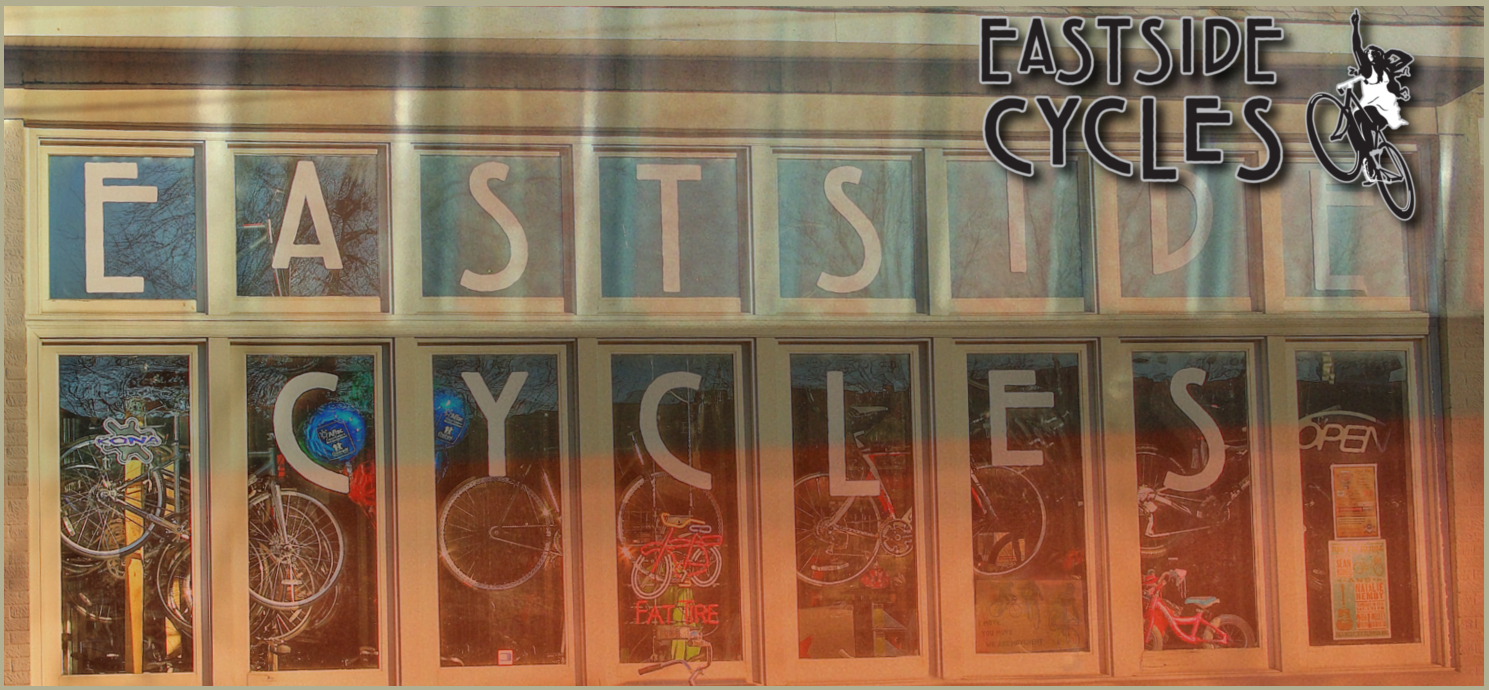
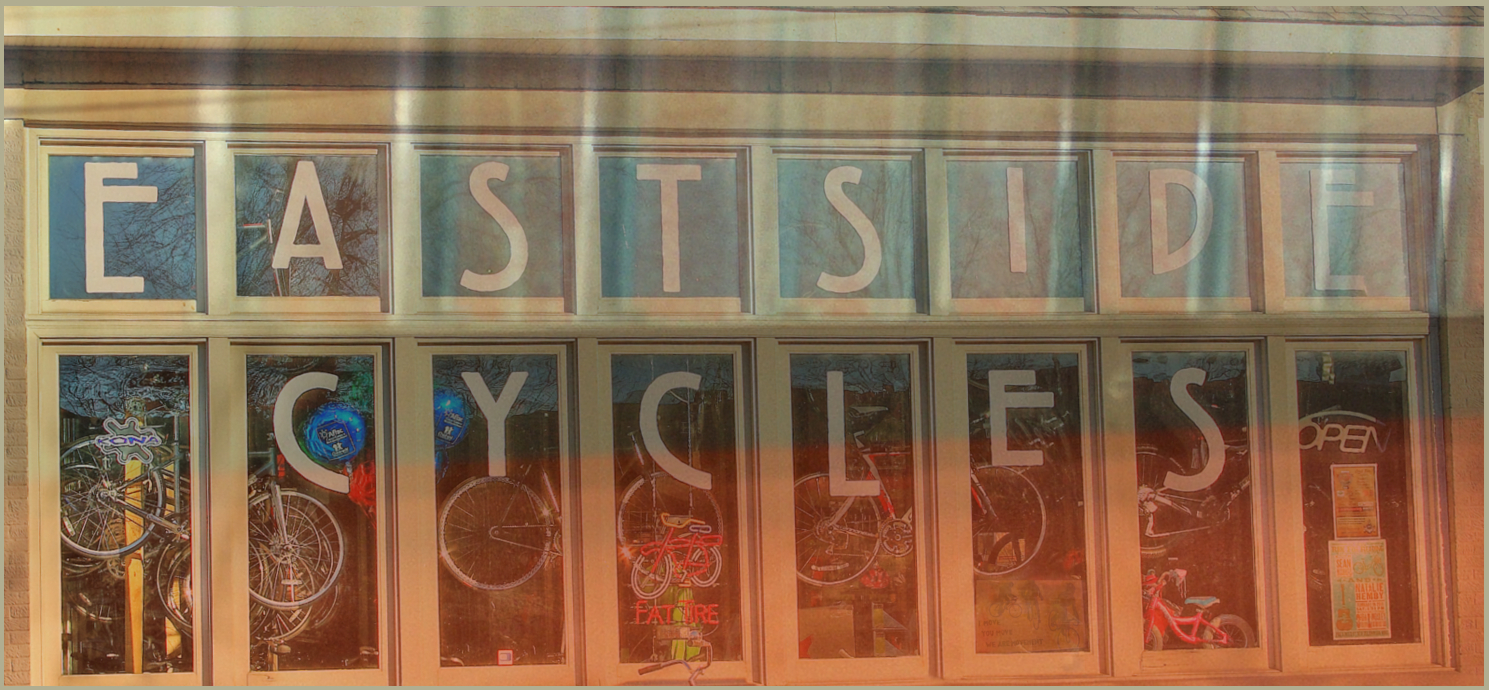
slider fixed and navbar offset is finally done added image transitions

Changed region(s): [[0.6488, 0.0, 0.9577, 0.3348]]

diff --git a/app/styles/main.scss b/app/styles/main.scss
@@ -13,26 +13,69 @@ footer{
   border-top: 1px solid gray;
   background-color: gray;
 }
-#offset{
-  position: relative;
-  bottom: rem-calc(45px);
-}
 
+
+#offset{
+  margin-top: rem-calc(-45px);
+}
 #parallax_container{
-  height:rem-calc(700px);
-  border-bottom: rem-calc(20px) solid gray;
+  height:rem-calc(600px);
+  z-index: 5;
+  position: inherit;
+  margin-bottom: 30px;
+  border-bottom: 20px solid gray;
 }
 
 #parallax{
   height: 100%;
   width: 100%;
-  background-image:url('/img/eastSideHEADER1_sansLogo.jpg');
-  background-attachment: fixed;
+  position: inherit;
 
-  #parallax_content{
+
+  #parallax_content_1{
     height: 100%;
     width: 100%;
     overflow: hidden;
+    position: absolute;
+    z-index: 1;
+    background-image:url('/img/eastSideHEADER1.jpg');
+    background-attachment: fixed;
+    background-size: cover;
+    display: hidden;
+  }
+
+    #parallax_content_2{
+    height: 100%;
+    width: 100%;
+    overflow: hidden;
+    position: absolute;
+    z-index: 2;
+    background-image:url('/img/eastSideHEADER2.jpg');
+    background-attachment: fixed;
+    background-size: cover;
+    display: hidden;
+
+  }
+
+    #parallax_content_3{
+    height: 100%;
+    width: 100%;
+    overflow: hidden;
+    position: absolute;
+    z-index: 3;
+    background-image:url('/img/eastSideHEADER3.jpg');
+    background-attachment: fixed;
+    background-size: cover;
+    display: hidden;
+  }
+
+    #parallax_content_4{
+    height: 100%;
+    width: 100%;
+    overflow: hidden;
+    position: absolute;
+    background-image: linear-gradient(45deg, rgba(35,81,84,.9) 0%, rgba(61,24,51,.5) 50%, rgba(198,45,61,.5) 100%);
+    z-index: 4;
   }
 }
 

diff --git a/app/scripts/main.js b/app/scripts/main.js
@@ -4,6 +4,8 @@ $(document).ready(initialize);
 
 function initialize(){
   set_width();
+  header_fade();
+  setInterval(header_fade,15000);
   var s = skrollr.init({
   render: function(data) {
         //Log the current scroll position.
@@ -16,4 +18,25 @@ function initialize(){
 
 function set_width(){
   $("row").css({"max-width":window.innerWidth});
+}
+
+
+function header_fade(){
+
+  var children = $("#parallax").children();
+  setTimeout(function(){
+    console.log("timeout 1")
+    $(children[1]).fadeOut(800);
+    $(children[2]).fadeIn(800);
+  }, 5000)
+    setTimeout(function(){
+    console.log("timeout 2")
+    $(children[2]).fadeOut(800);
+    $(children[0]).fadeIn(800);
+  }, 10000)
+    setTimeout(function(){
+    console.log("timeout 3")
+    $(children[0]).fadeOut(800);
+    $(children[1]).fadeIn(800);
+  }, 15000)
 }
